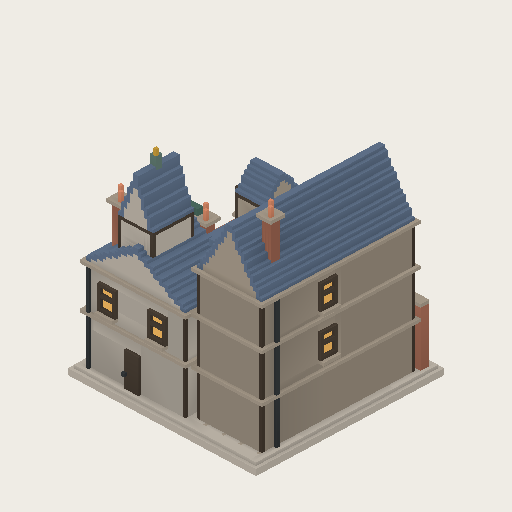
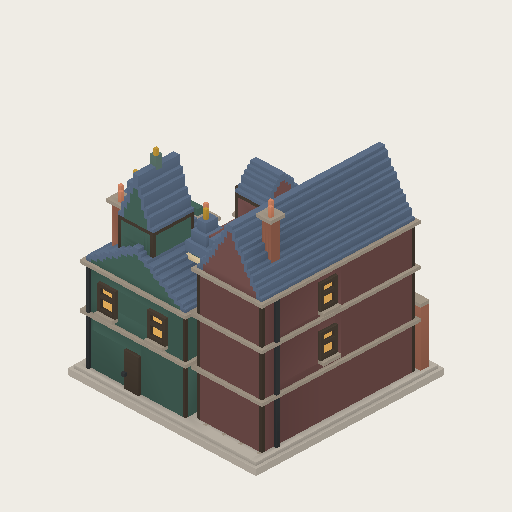
refine(diagon): freeze opening brick wall and extend rich shop colours to ornate upper facades

Changed region(s): [[0.1562, 0.3438, 0.8125, 0.875], [0.5312, 0.3438, 0.5625, 0.4062], [0.4688, 0.375, 0.5, 0.4375]]

diff --git a/src/generators/diagonAlley.js b/src/generators/diagonAlley.js
@@ -9,13 +9,13 @@ export function diagonAlleySpec() {
     cap:{type:"gable",heightVoxels:roofHeight,orientation},
     materials:{wall,roof:"slate",trim:"timber",window:"warmWindow"},facade:{enabled:false}
   });
-  const spec=createUrbanMassingSpec({id:DIAGON_ASSET_ID,seed:"diagon-alley-v2",widthCells:2,depthCells:2,
-    masses:[shop("wand-shop",-18,-1,22,52,44,"stoneShadow",17),
-      shop("bookshop",12,-19,34,20,31,"pavement",10),
-      shop("apothecary",21,15,18,20,17,"brickBrown",9),
-      shop("bookshop-tower",14,-20,12,14,16,"pavement",14,31),
-      shop("wand-dormer",-8,-4,10,12,8,"stoneShadow",7,48,"east_west") ]});
-  return {...spec,assetId:DIAGON_ASSET_ID,assetRevision:2,footprint:{...spec.footprint,worldWidth:8,worldDepth:8}};
+  const spec=createUrbanMassingSpec({id:DIAGON_ASSET_ID,seed:"diagon-alley-v3",widthCells:2,depthCells:2,
+    masses:[shop("wand-shop",-18,-1,22,52,44,"shopWine",17),
+      shop("bookshop",12,-19,34,20,31,"shopGreen",10),
+      shop("apothecary",21,15,18,20,17,"shopWine",9),
+      shop("bookshop-tower",14,-20,12,14,16,"shopGreen",14,31),
+      shop("wand-dormer",-8,-4,10,12,8,"shopWine",7,48,"east_west") ]});
+  return {...spec,assetId:DIAGON_ASSET_ID,assetRevision:3,footprint:{...spec.footprint,worldWidth:8,worldDepth:8}};
 }
 
 export function addDiagonDetails(buffer) {
@@ -70,25 +70,49 @@ export function addDiagonDetails(buffer) {
     p("sandstone",width-3,13,7,1,3);
     if(kind==="books") p("sandstone",width-1,13,7,1,3);
   }
+  function oriel(p,u,y,w,h,color) {
+    p(color,u-1,y-2,0,w+2,h+4,3);
+    p("warmWindow",u,y,3,w,h);
+    for(let dx=0;dx<=w;dx+=3) p("sandstone",u+dx,y,4,1,h);
+    p("sandstone",u-1,y-1,3,w+2,1,2);
+    p("sandstone",u-1,y+h,3,w+2,1,2);
+    p("gildedMetal",u,y+h+1,3,w,1);
+    p(color,u-2,y+h+2,1,w+4,1,3);
+    p("sandstone",u,y+Math.floor(h/2),4,w,1);
+  }
   const wand=facade(-7,-19,"right");
   const books=facade(-4,-9,"front");
   const potions=facade(12,6,"left");
-  shopfront(wand,"timber",26,"wands");
+  shopfront(wand,"shopWine",26,"wands");
   shopfront(books,"shopGreen",30,"books");
   shopfront(potions,"shopWine",18,"potions");
-  for(const u of [3,18]) window(wand,u,20);
+  for(const u of [3,18]) oriel(wand,u,19,5,9,"shopWine");
   // A hanging upper room and projecting casements exaggerate the silhouette
   // without diagonal geometry or occupying the walking lane at ground level.
-  box("stoneShadow",-7,31,-17,4,13,24);
+  box("shopWine",-7,31,-17,4,13,24);
   box("timber",-7,30,-18,5,1,26);box("slate",-7,44,-18,5,2,26);
   const jetty=facade(-3,-17,"right");
-  for(const u of [3,17]) window(jetty,u,34,5,8);
+  for(const u of [3,17]) oriel(jetty,u,33,5,9,"shopWine");
   const dormer=facade(-3,-10,"right");window(dormer,3,49,5,6);
   const tower=facade(8,-13,"front");window(tower,3,36,5,9);
   box("shopGreen",7,32,-13,14,2,2);box("shopGreen",7,46,-13,14,2,2);
   // A tiny copper finial tops the disproportionately tall bookshop roof.
   box("patinaMetal",13,60,-21,2,4,2);box("gildedMetal",13,64,-21,1,2,1);
-  for(const u of [3,20]) window(books,u,21,5,6);
+  for(const u of [3,20]) oriel(books,u,20,6,8,"shopGreen");
+  // Slender painted pilasters tie the retail colour through the full facade.
+  for(const u of [0,15,32]) books("sandstone",u,17,1,1,13);
+  for(const u of [0,12,27]) wand("sandstone",u,17,1,1,12);
+  // Two small stepped turrets echo the reference's clustered spires while
+  // remaining integer voxels and keeping the central roof dominant.
+  for(const x of [0,24]) {
+    box("shopGreen",x,26,-17,5,13,6);
+    box("sandstone",x-1,37,-18,7,1,8);
+    box("warmWindow",x+1,30,-11,2,5,1);
+    box("sandstone",x+2,30,-10,1,5,1);
+    for(let level=0;level<3;level++)
+      box("slate",x-1+level,39+level*3,-18+level,7-level*2,3,8-level*2);
+    box("gildedMetal",x+2,48,-15,1,3,1);
+  }
   // Street-facing end elevations, with fewer windows than the shop fronts.
   const wandEnd=facade(-29,25,"front");
   for(const y of [21,35]) window(wandEnd,8,y,5,6);
@@ -109,16 +133,21 @@ export function addDiagonDetails(buffer) {
     box("brickBrown",x,y,z,3,h,3);box("stoneShadow",x-1,y+h,z-1,5,1,5);
     box("brickRed",x,y+h+1,z,1,3,1);box("brickRed",x+2,y+h+1,z+2,1,3,1);
   }
-  // Closed magical brick entrance: no visible arch, public shop window, or
-  // gap through which the street can look into the alley. Opening animation
-  // is intentionally not part of this fixed asset.
-  box("brickBrown",-30,1,26,61,18,3);
+  // Freeze the enchanted wall halfway through opening: an irregular narrow
+  // slit with displaced brick ends, not a conventional gateway or animation.
+  for(let y=1;y<=18;y++) {
+    const left=y<4?-1:y<10?-3:y<15?-2:0;
+    const right=y<5?3:y<12?4:y<16?3:2;
+    box("brickBrown",-30,y,26,left+30,1,3);
+    box("brickBrown",right,y,26,31-right,1,3);
+    if(y%3===1) {
+      box("brickRed",left-2,y,29,2,1,2);
+      box("brickRed",right,y,25,2,1,2);
+    }
+  }
   box("stoneShadow",-30,19,26,61,1,3);
   for(let y=2;y<18;y+=3) for(let x=-29+(y%2)*3;x<29;x+=7)
-    box("brickRed",x,y,28,4,1,1);
-  // A subtle offset-brick seam identifies the secret panel only close up.
-  for(let y=2;y<15;y+=3) box("stoneShadow",-5,y,28,1,1,1);
-  box("brickRed",1,8,28,2,1,1);
+    if(x+4 < -4 || x>5) box("brickRed",x,y,28,4,1,1);
   // Modest book crates and a freestanding notice board inside the alley.
   box("timber",25,1,-7,4,3,2);box("brickRed",26,4,-7,1,2,2);
   box("shopGreen",25,1,3,1,7,1);box("timber",24,3,3,4,5,1);
@@ -128,7 +157,7 @@ export function addDiagonDetails(buffer) {
 export function createDiagonAlley({cellWorldSize=4,nightLighting=0}={}) {
   const root=createVoxelMassingLab({spec:diagonAlleySpec(),renderStrategy:"greedy",nightLighting,voxelDetailPass:addDiagonDetails});
   root.name="DiagonAlley";root.scale.setScalar(cellWorldSize/4);
-  root.userData={...root.userData,assetId:DIAGON_ASSET_ID,assetRevision:2,representation:"special-landmark-voxel",
+  root.userData={...root.userData,assetId:DIAGON_ASSET_ID,assetRevision:3,representation:"special-landmark-voxel",
     sphereProjectionRoot:true,footprint:"2x2",entrance:"north",authoredParcelSize:8,voxelSize:.125};
   return root;
 }

diff --git a/test/diagonAlley.test.js b/test/diagonAlley.test.js
@@ -23,15 +23,20 @@ test("alley remains on the shared voxel grid and within its parcel in all orient
   disposeBuildingObject(model);
 });
 
-test("closed secret wall conceals a continuous L-shaped internal lane",()=>{
+test("partly opening brick wall retains a narrow slit and a clear L-shaped internal lane",()=>{
   const model=createVoxelMassingLab({spec:diagonAlleySpec(),renderStrategy:"greedy",voxelDetailPass(buffer){
     addDiagonDetails(buffer);
-    for(let z=-2;z<=25;z++) for(let x=0;x<=3;x++) for(let y=1;y<=9;y++)
+    for(let z=-2;z<=24;z++) for(let x=0;x<=3;x++) for(let y=1;y<=9;y++)
       assert.equal(buffer.getMaterialAt(x,y,z),null,`blocked route at ${x},${y},${z}`);
     for(let x=0;x<=27;x++) for(let z=-2;z<=1;z++) for(let y=1;y<=9;y++)
       assert.equal(buffer.getMaterialAt(x,y,z),null,`blocked bend at ${x},${y},${z}`);
-    for(let x=-29;x<=29;x++) for(let y=1;y<=18;y++)
+    for(const x of [-20,-10,10,20]) for(let y=1;y<=18;y++)
       assert.ok(buffer.getMaterialAt(x,y,26),"front brick wall must have no open gateway");
+    for(let y=1;y<=18;y++) for(let z=26;z<=28;z++)
+      assert.equal(buffer.getMaterialAt(1,y,z),null,"secret wall retains a narrow real opening");
+    assert.equal(buffer.getMaterialAt(-4,7,30),"brickRed","opening has displaced brick ends");
+    assert.equal(buffer.getMaterialAt(-15,22,24),"shopWine");
+    assert.equal(buffer.getMaterialAt(12,25,-10),"shopGreen");
   }});disposeBuildingObject(model);
 });
 

diff --git a/docs/visual-development/diagon-alley-001/README.md b/docs/visual-development/diagon-alley-001/README.md
@@ -1,8 +1,8 @@
-# 斜角巷 · 2×2 体素商业街（第二版）
+# 斜角巷 · 2×2 体素商业街（第三版）
 
-三层魔杖店、带高阁楼的书店、低矮药剂店夹出一条 L 形内部巷道。入口朝 +Z，地块为 8×8 世界单位。临街面为闭合旧砖墙，仅通过细微砖缝暗示秘密入口，固定资产表现关闭状态，不含开墙动画。加长两侧房屋，取消原先的开放前庭；巷道先向里再右转。
+三层魔杖店、带高阁楼的书店、低矮药剂店夹出一条 L 形内部巷道。入口朝 +Z，地块为 8×8 世界单位。临街砖墙定格在正在打开的状态：不规则窄缝、前后错动砖端，保留隐蔽感，不含动画。巷道先向里再右转，保持第二版收窄后的布局。
 
-第二版移除外露砖拱和临街橱窗；魔杖店增加悬挑房间、大老虎窗和更陡屋顶，书店增加高窄阁楼及铜色顶饰。低矮药剂店让俯视仍能看到部分内部店面。本版供继续审美迭代，不是整条电影街景的缩比复刻。
+第三版根据用户提供的彩色魔法商店参考，将底商酒红、墨绿延伸至全部上层墙面与山墙，增加竖向凸窗、浅色细饰边、成组阶梯尖塔与金属顶饰。保留大老虎窗和悬挑房间。本版供继续审美迭代，不是整条电影街景的缩比复刻。
 
 ![正面](front.png)
 
@@ -12,10 +12,10 @@
 
 ## 配色与实现
 
-- 暖灰石墙、灰褐墙、旧红砖入口，共用蓝灰板岩屋顶和暖琥珀窗光，不使用米色 Tudor 木构。
+- 整栋酒红、墨绿墙面，旧红砖入口，共用蓝灰板岩屋顶和暖琥珀窗光；浅砂色仅作窄饰边，不作大面积墙底。
 - 新增 `shopGreen`、`shopWine` 哑光漆木材质，用于底层店面和吊牌；使用既有 painted 表面着色，非金属、非自发光。
 - `src/generators/diagonAlley.js` 是固定资产源，复用 UrbanMassingSpec、VoxelInstanceBuffer 与 greedy meshing；所有面位于 0.125 体素网格。
-- 7000 三角形；已有/新建 2×2 斜角巷、放置预览、CPU 可视化共用工厂。非 2×2 历史记录保留旧路径。
+- 7742 三角形；已有/新建 2×2 斜角巷、放置预览、CPU 可视化共用工厂。非 2×2 历史记录保留旧路径。
 - 不改变卡牌遮蔽效果、成本或其他玩法。巷道为资产内部视觉空间，不写入城市道路网络。
 - CPU 预览采用简化日光，不完整代表游戏内 AO、动态阴影和夜间发光。
 
@@ -27,4 +27,4 @@ pnpm visualize:building public/generated/diagon-alley-001/asset.json docs/visual
 pnpm visualize:building public/generated/diagon-alley-001/asset.json docs/visual-development/diagon-alley-001/back.png back 512
 ```
 
-测试覆盖四向边界、体素网格、面数预算、关闭入口墙的完整性、内巷两段及转角连续净空，以及城市/预览/可视化一致性。
+测试覆盖四向边界、体素网格、面数预算、入口窄缝与错位砖端、上层墙面配色、内巷两段及转角连续净空，以及城市/预览/可视化一致性。
